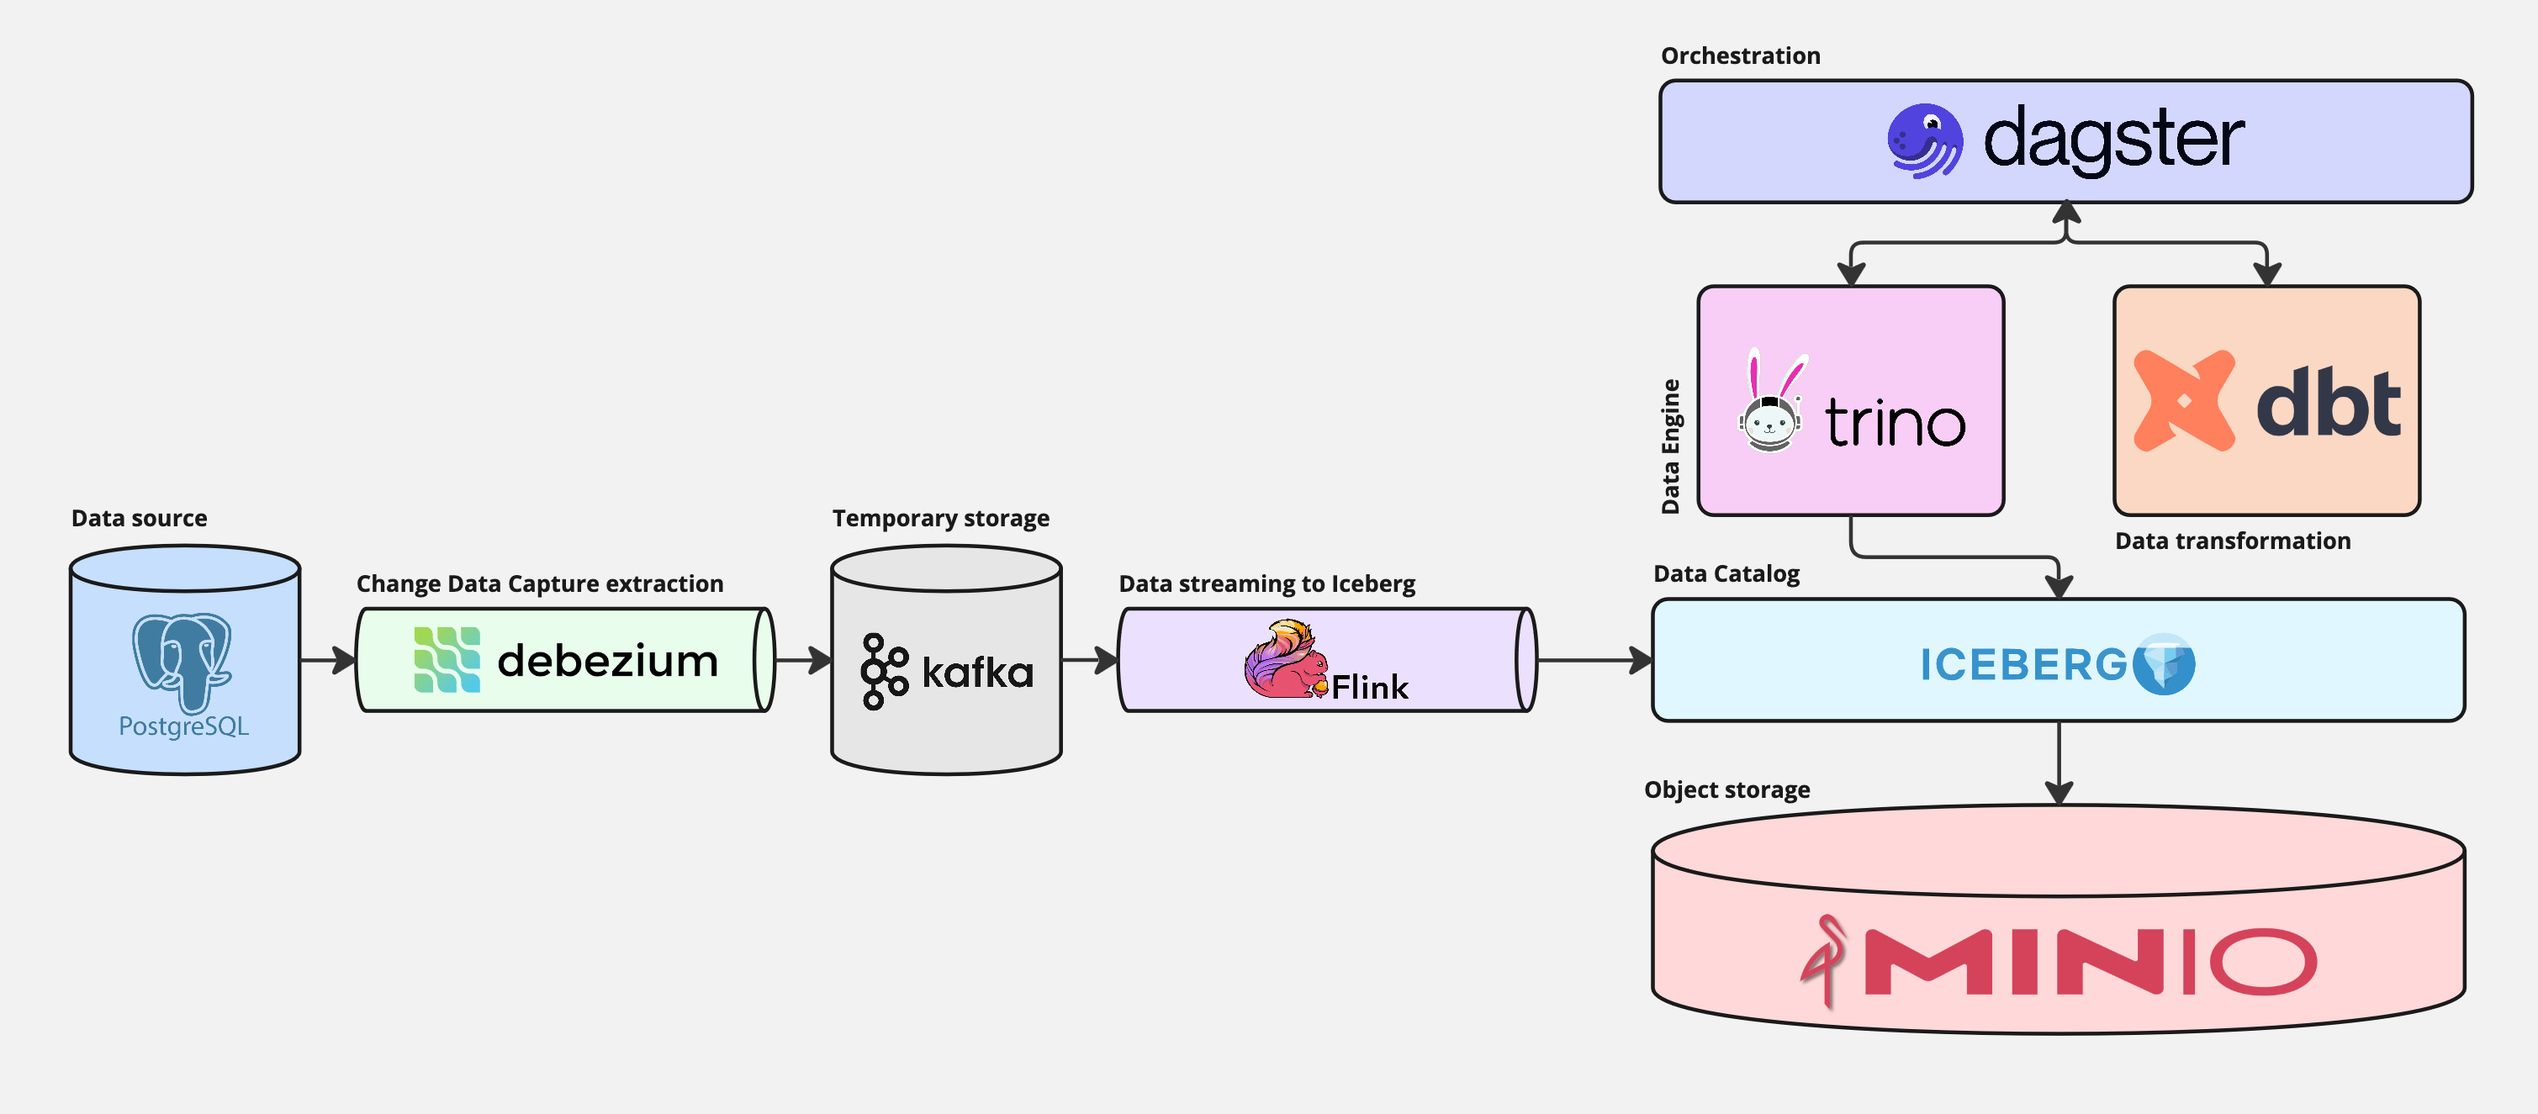
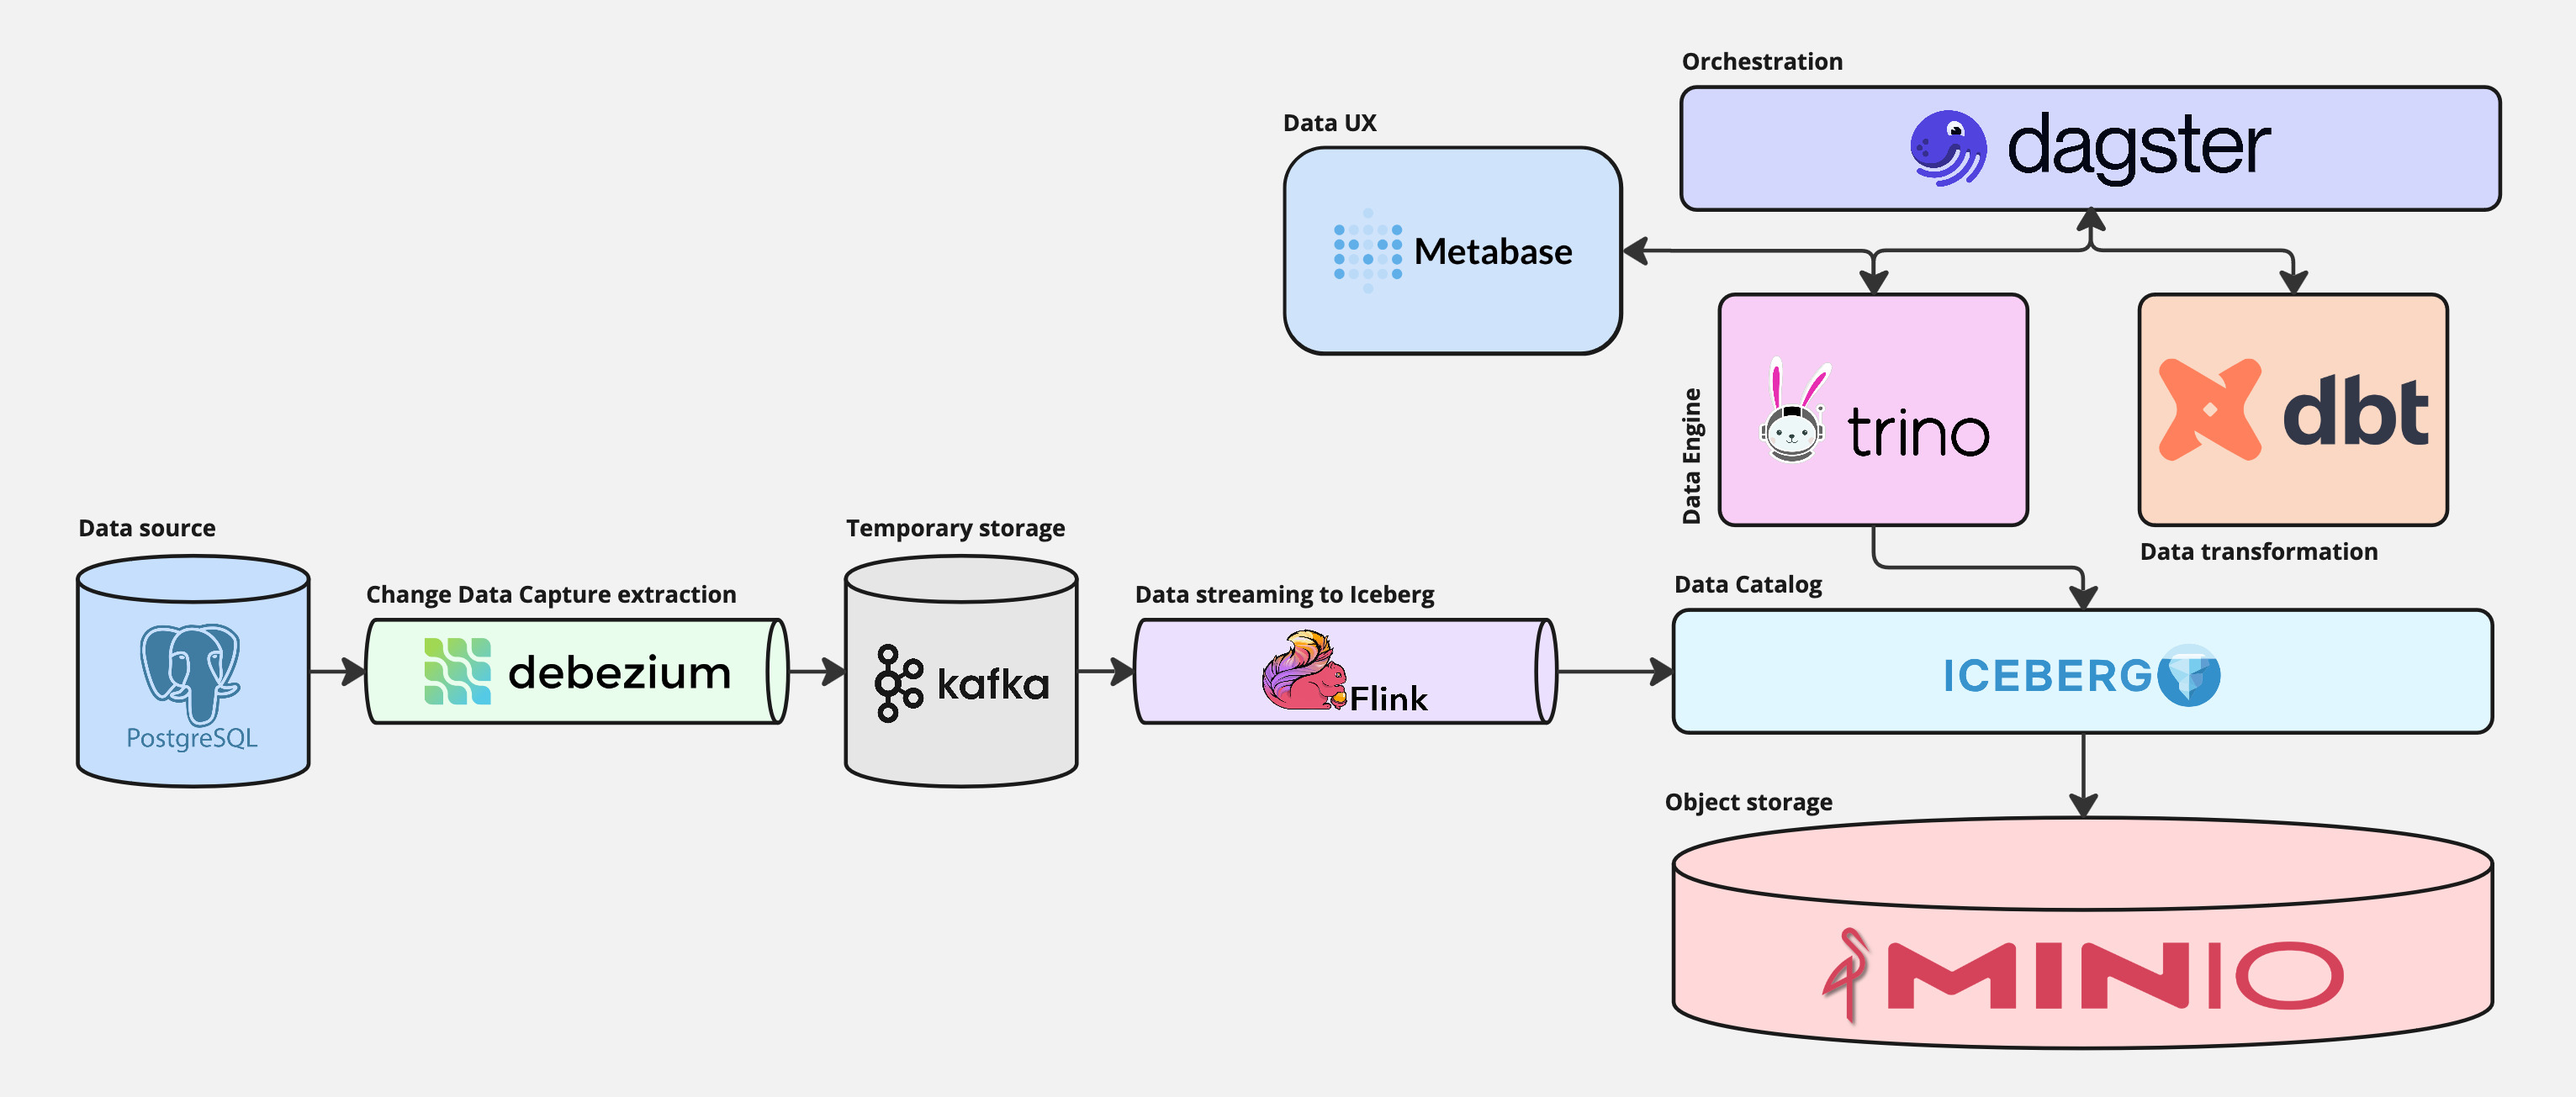
add metabase

diff --git a/README.md b/README.md
@@ -317,3 +317,11 @@ USE iceberg.data_vault;
 SHOW TABLES;
 SELECT * FROM s_users;
 ```
+
+## Data Analysis and Visualization with Metabase
+
+Metabase serves as the user interface for data analysis and visualization in this Data Lakehouse prototype.
+It connects directly to Trino, allowing you to explore data in Iceberg and build interactive dashboards and reports.
+The container has an additional Starburst plugin to be able to connect to Trino engine.
+
+To access Metabase, open http://localhost:3001 in your browser.
